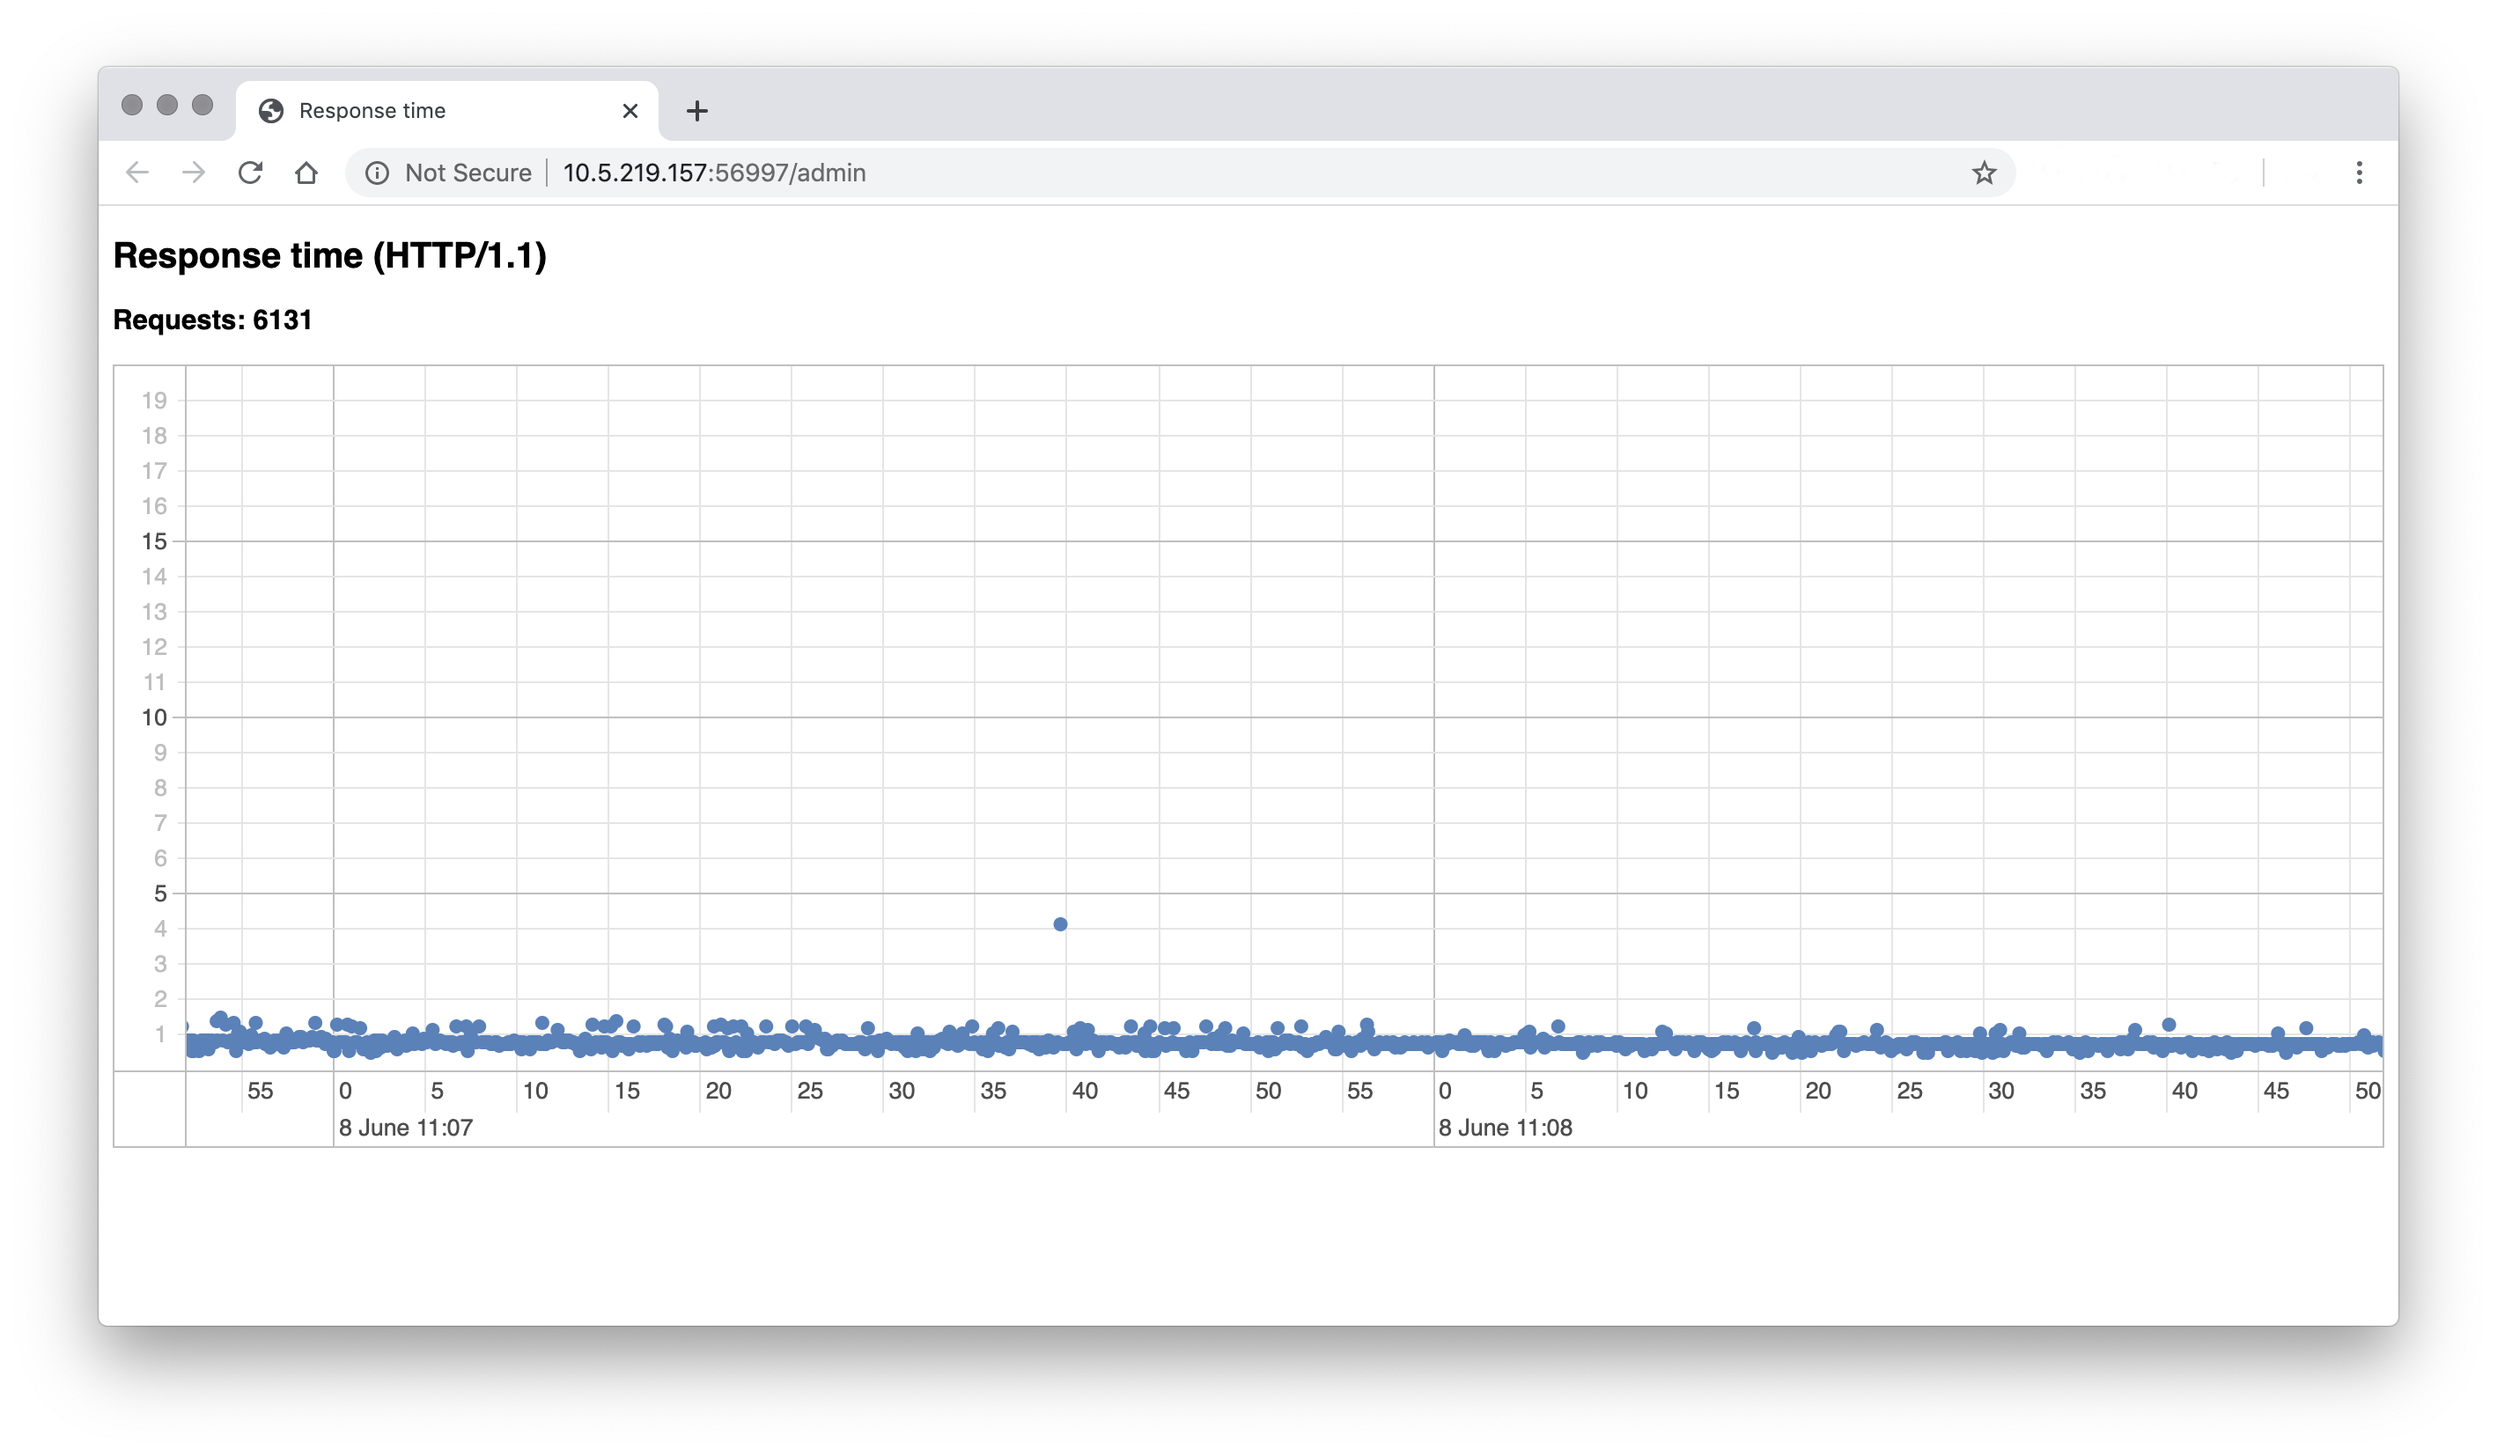
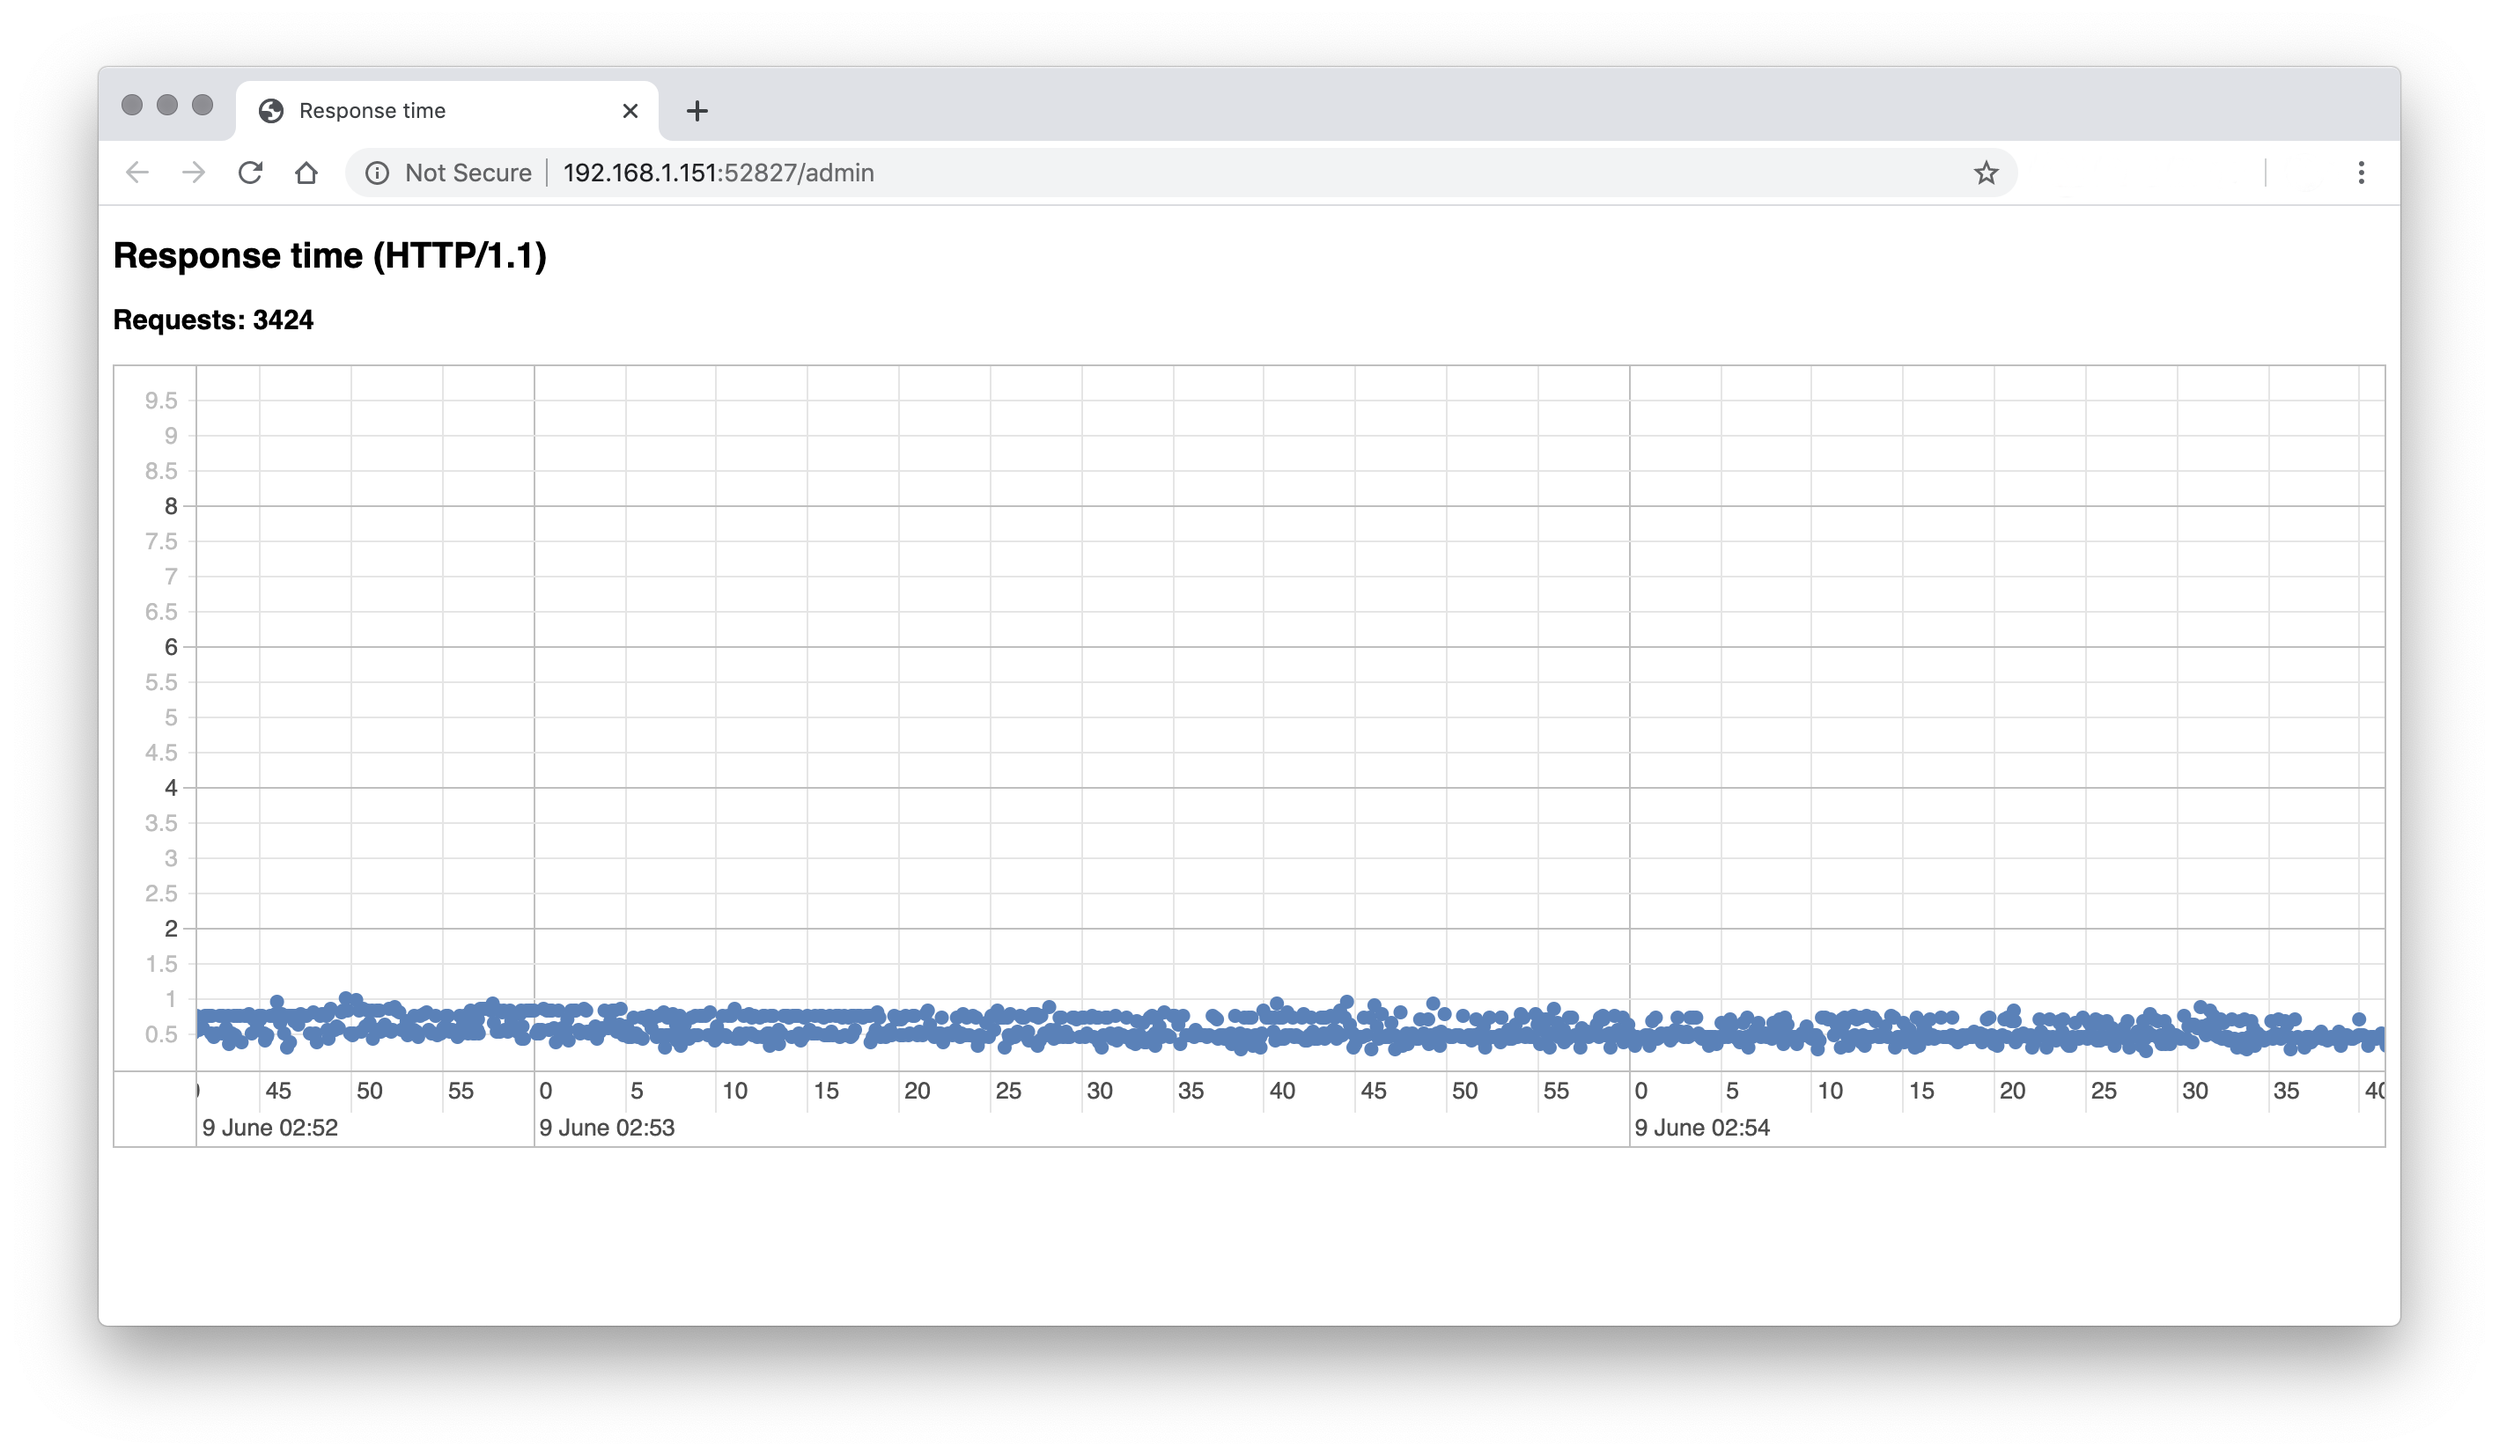
Optimizations and retesting

diff --git a/src/main/resources/admin.html b/src/main/resources/admin.html
@@ -55,7 +55,7 @@
       dataAxis: {
         left: {
           range: {
-            min: 0, max: 20
+            min: 0, max: 10
           }
         }
       },

diff --git a/src/main/java/com/jaffa/rpc/lib/zookeeper/Utils.java b/src/main/java/com/jaffa/rpc/lib/zookeeper/Utils.java
@@ -88,32 +88,25 @@ public class Utils {
 
     public static Pair<String, String> getHostForService(String service, String moduleId, Protocol protocol) {
         service = Utils.getServiceInterfaceNameFromClient(service);
-        Stat stat;
         try {
-            stat = isZNodeExists("/" + service);
-        } catch (KeeperException | InterruptedException e) {
-            log.error("Can not connect to ZooKeeper cluster", e);
-            throw new JaffaRpcSystemException(e);
-        }
-        if (stat != null) {
-            try {
-                MutablePair<String, String> host = getHostsForService("/" + service, moduleId, protocol).get(0);
-                if (protocol.equals(Protocol.HTTP)) {
-                    host.left = getHttpPrefix() + host.left;
-                }
-                return host;
-            } catch (KeeperException | ParseException | InterruptedException e) {
-                throw new JaffaRpcNoRouteException(service);
+            MutablePair<String, String> host = getHostsForService("/" + service, moduleId, protocol).get(0);
+            if (protocol.equals(Protocol.HTTP)) {
+                host.left = getHttpPrefix() + host.left;
             }
-        } else throw new JaffaRpcNoRouteException(service);
+            return host;
+        } catch (ParseException e) {
+            throw new JaffaRpcNoRouteException(service);
+        }
     }
 
     private static String getHttpPrefix() {
         return (Boolean.parseBoolean(System.getProperty("jaffa.rpc.protocol.use.https", String.valueOf(false))) ? "https" : "http") + "://";
     }
 
-    private static ArrayList<MutablePair<String, String>> getHostsForService(String service, String moduleId, Protocol protocol) throws KeeperException, ParseException, InterruptedException {
+    private static ArrayList<MutablePair<String, String>> getHostsForService(String service, String moduleId, Protocol protocol) throws ParseException {
         byte[] zkData = cache.get(service);
+        if(zkData == null)
+            throw new JaffaRpcNoRouteException(service);
         JSONArray jArray = (JSONArray) new JSONParser().parse(new String(zkData));
         if (jArray.isEmpty())
             throw new JaffaRpcNoRouteException(service);
